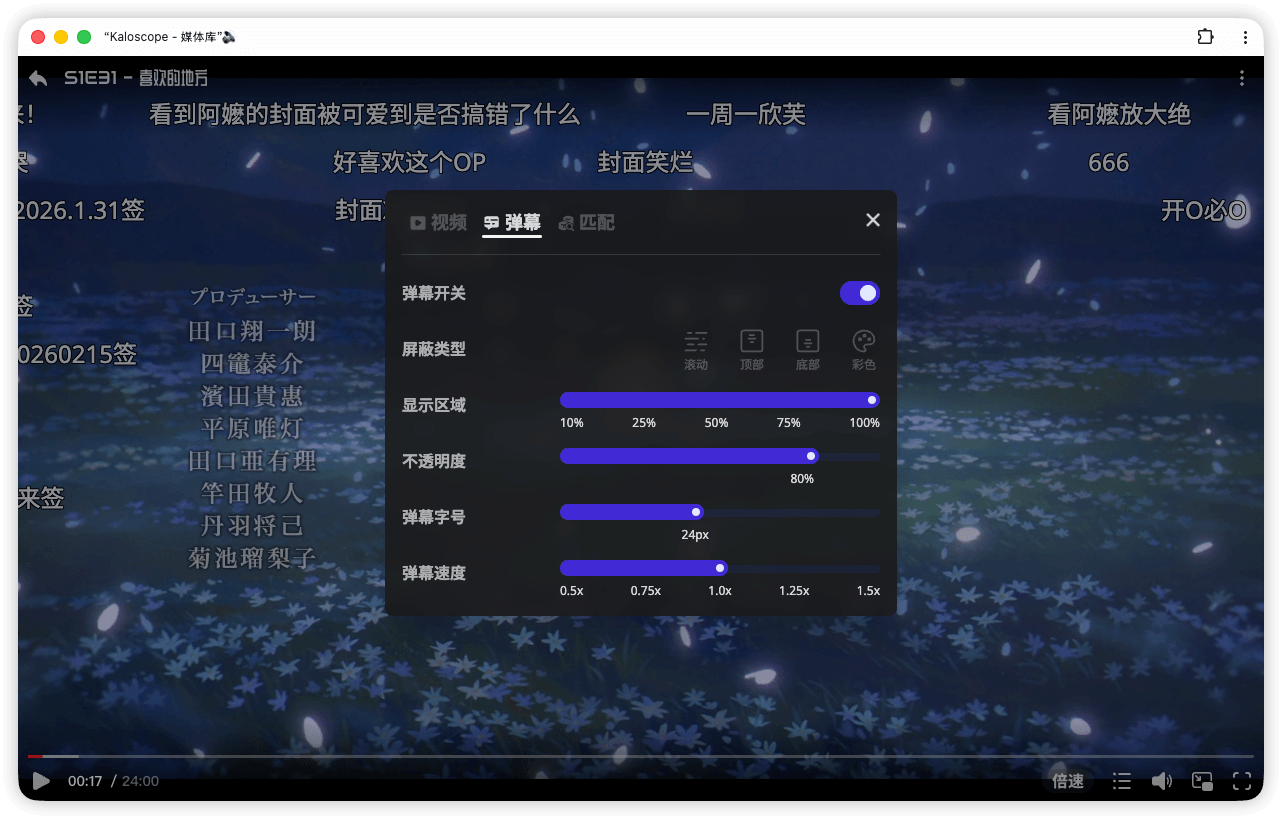
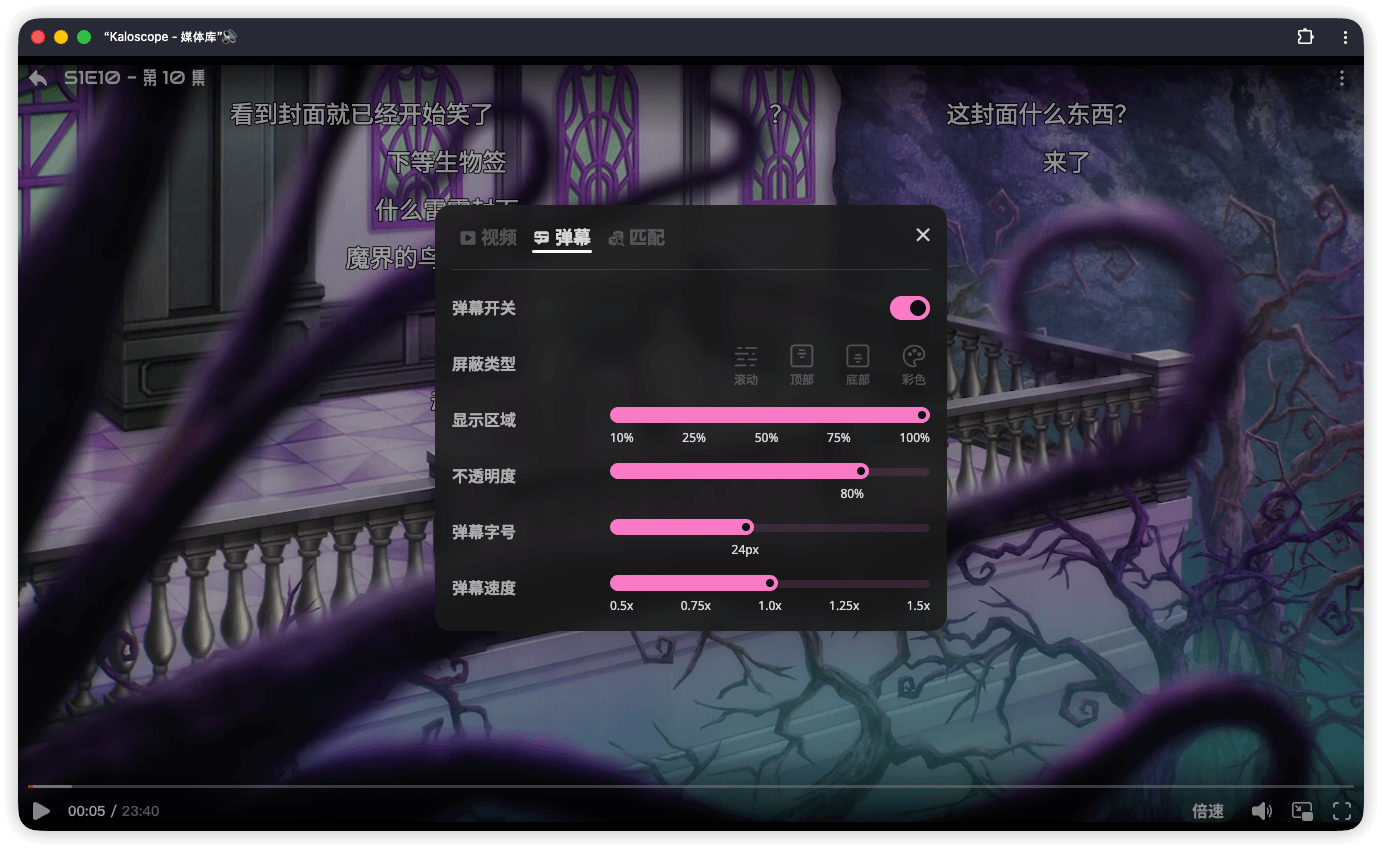
docs: update screenshots and replace outdated images

diff --git a/site/docs/workflows/variables.md b/site/docs/workflows/variables.md
@@ -5,7 +5,7 @@
 - 支持按变量名进行筛选
 - 变量名支持一键复制，方便在工作流字段中直接引用
 
-![global-variable](/screenshots/global-variable.png)
+![new-variable](/screenshots/new-variable.png)
 
 ## 新增变量
 

diff --git a/site/docs/danmaku.md b/site/docs/danmaku.md
@@ -27,4 +27,4 @@
 https://danmaku.kaloscope.org
 ```
 
-![danmaku-server](/screenshots/danmaku-server.png)
+![new-medialib](/screenshots/new-medialib.png)
